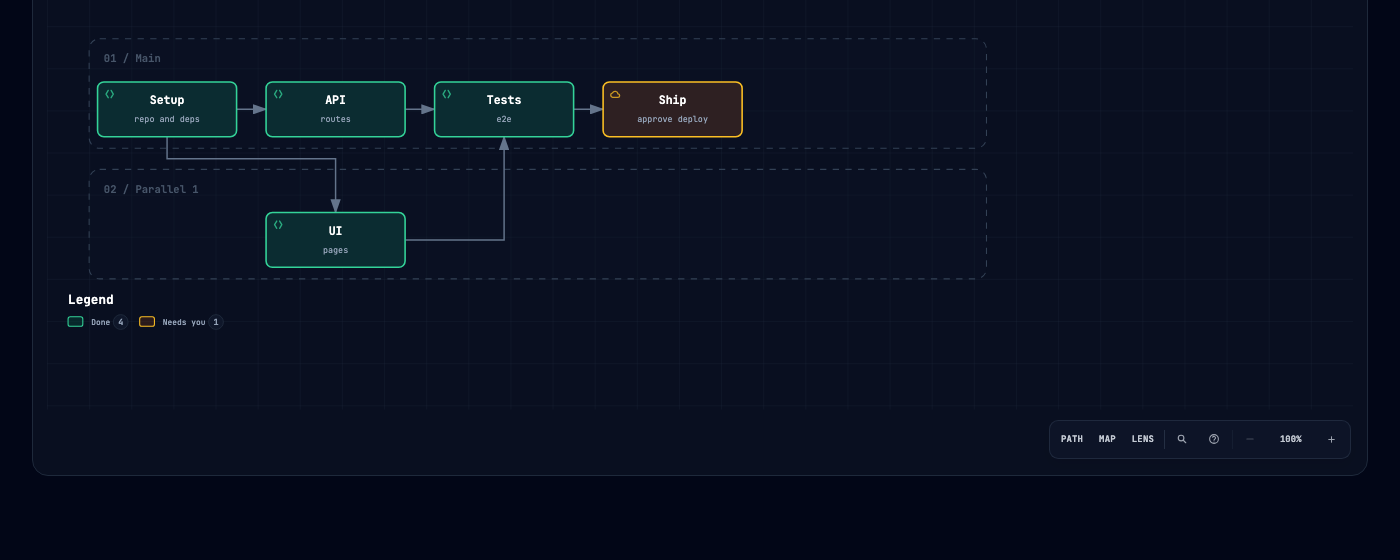
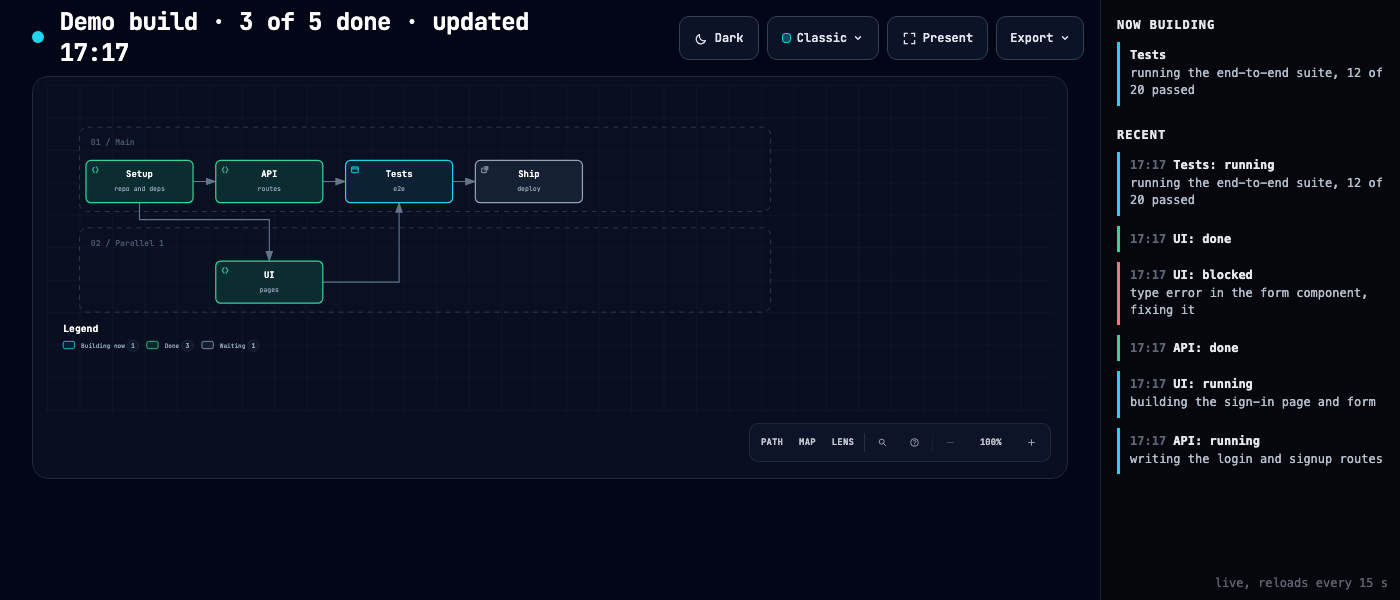
Now building panel: --say puts a sentence per running node beside the map

diff --git a/README.md b/README.md
@@ -1,6 +1,6 @@
 # build-map
 
-A live picture of a build while it runs. Each part of the build is a box, arrows show what waits on what, and the colours change as work moves: done, building now, waiting, blocked, needs you. Open one page in a browser and it redraws itself every 15 seconds.
+A live picture of a build while it runs. Each part of the build is a box, arrows show what waits on what, and the colours change as work moves: done, building now, waiting, blocked, needs you. Open one page in a browser and it redraws itself every 15 seconds. A panel beside the picture says, in plain words, what the AI is working on right now and what just changed.
 
 ![build-map](screenshot.png)
 
@@ -49,7 +49,14 @@ Open `demo-out/live.html` while it runs. Five parts go from waiting to done over
 ./build-map set ./map e2e=human:"approve deploy"
 ```
 
-States: `waiting`, `running`, `done`, `blocked`, `human`. Text after the colon shows under the box name.
+States: `waiting`, `running`, `done`, `blocked`, `human`. Text after the colon shows under the box name (short, about 26 characters).
+
+**Say what it's doing.** `--say` puts a full sentence in the "Now building" panel next to the picture. The panel lists every box that is running, blocked or waiting on you, plus the last six changes.
+
+```bash
+./build-map set ./map api=running:"routes" --say "api: writing the login and signup routes"
+./build-map set ./map --say "api: routes done, writing their tests"   # new sentence, same state
+```
 
 **3. Watch it.** Open `./map/live.html`.
 
@@ -63,7 +70,7 @@ When more parts are waiting than running, the subtitle says so and names them. T
 
 Put this in your orchestrator's instructions (or CLAUDE.md):
 
-> Before dispatching anything, run `build-map init` with every node and its dependencies. After every state change on the board, run `build-map set` in the same step. A node is `running` only while an agent is actually working on it.
+> Before dispatching anything, run `build-map init` with every node and its dependencies. After every state change on the board, run `build-map set` in the same step, with `--say "<id>: <one sentence on what the agent is doing>"` for every node that starts running or gets blocked. A node is `running` only while an agent is actually working on it.
 
 That last rule matters: a map that shows six boxes building while one agent works is worse than no map.
 
